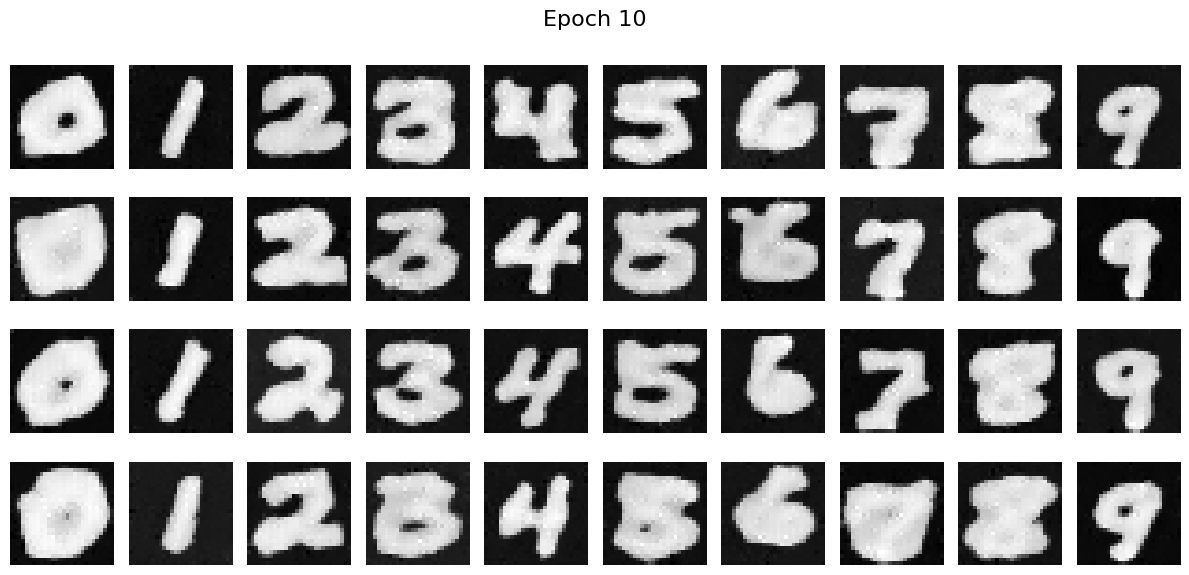
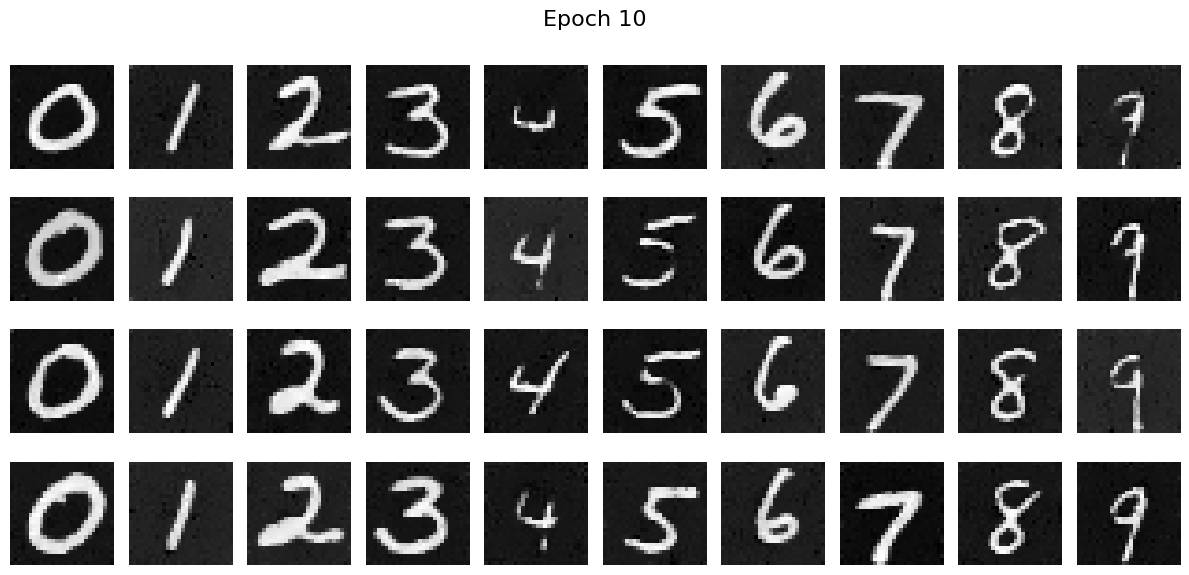
compsci180 proj 5b

diff --git a/source/_posts/compsci180_5.md b/source/_posts/compsci180_5.md
@@ -1113,7 +1113,7 @@ Using the same parameters in the Time-Conditioned UNet, we can get the following
 
 <div style="display: flex; justify-content: center; gap: 30px; margin: 30px 0; flex-wrap: wrap;">
   <div style="text-align: center;">
-    <img src="/images/compsci180/proj_5b/part2/cond_training_curve.png" alt="Training Loss for Time Conditioned UNet" style="width: 100%; height: auto; border-radius: 4px;">
+    <img src="/images/compsci180/proj_5b/part2_sched/cond_training_curve.png" alt="Training Loss for Time Conditioned UNet" style="width: 100%; height: auto; border-radius: 4px;">
   </div>
 </div>
 
@@ -1182,7 +1182,7 @@ We can see that the Class-Conditioned UNet can help generate more accurate and c
 
 We observe that train without scheduler does not directly lead to a bad results. However, it does lead to slower convergence and therefore it is better to use scheduler.
 
-Results with Time-Conditioned Network:
+**Results with Time-Conditioned Network:**
 
 <div style="
   display: grid;
@@ -1240,7 +1240,7 @@ Results with Time-Conditioned Network:
 </div>
 
 
-Results with Class-Conditioned Network:
+**Results with Class-Conditioned Network:**
 
 <div style="
   display: grid;
@@ -1296,3 +1296,5 @@ Results with Class-Conditioned Network:
     >
   </div>
 </div>
+
+We can see that the differences between using scheduler and not using shceduler are not huge. However, using scheduler does lead to faster convergence.
